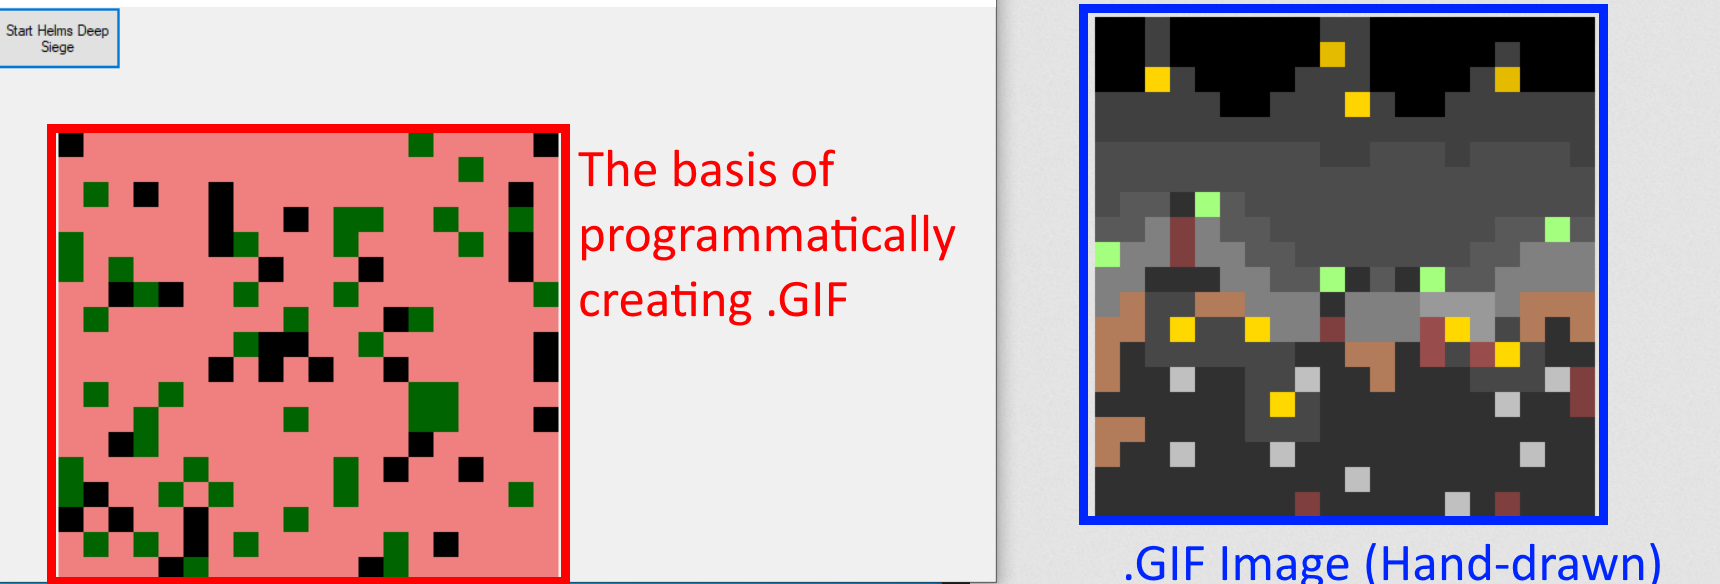
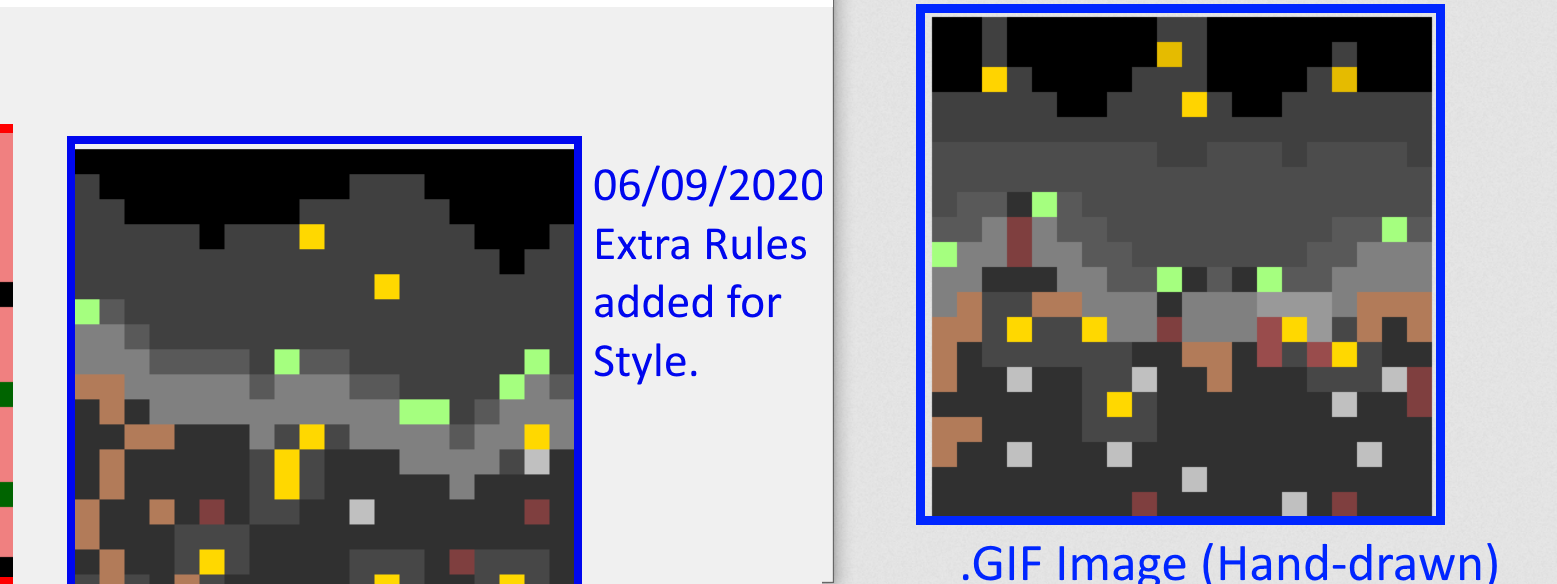
06/09/2020 Base Draw
Update so index image follows pattern of handdrawn .GIF
> Update README
>Add 'Progress.png
>Add 'WorkerFUuctions.GetNearbyCells to search for adjacent celltypes. This is for adding lighting effects and future combat handling.
> Add new Celltypes in SiegeFunctions.Celltypes enum
> Add 'cityHeight' and 'Wallheight' int array in WorkerFunctions. This is to store the max height of city cells and wall cells
> Edit Workerfunctions.FillCells to handle new celltypes added above. This is so the index image matches hand drawn type

diff --git a/WorkerFunctions.cs b/WorkerFunctions.cs
@@ -1,5 +1,6 @@
 using System;
 using System.Collections.Generic;
+using System.Diagnostics;
 using System.Drawing;
 using System.Linq;
 using System.Text;
@@ -23,13 +24,127 @@ namespace WindowsFormsApp1
         }
         public static void FillCells()
         {
-                Random rand = new Random();
-                for (int i = 0; i < Globals.siegeCells.GetLength(0); i++)
+            Random rand = new Random();
+            //The height of the Top of the wall
+            int height = 20;
+            int[] wallHeight = new int[height];
+            int[] cityHeight = new int[height];
+            for(int i=0; i< height; i++){
+                if (i == 0){
+                    wallHeight[i] = 7;
+                    cityHeight[i] = 2;
+                }
+                else{
+                    wallHeight[i] = wallHeight[i-1];
+                    cityHeight[i] = cityHeight[i-1];
+                }
+                int wallHeightChange = rand.Next(3);
+                int cityHeightChange = rand.Next(3);
+                if (wallHeight[i]>10)
                 {
+                    wallHeightChange = rand.Next(2) ;
+                }
+                if (wallHeight[i] < 5)
+                {
+                    wallHeightChange = rand.Next(2)+1;
+                }
+                if (cityHeight[i] > 4) {
+
+                    cityHeightChange = rand.Next(2);
+
+                }
+                if(cityHeight[i]< 2)
+                {
+                    cityHeightChange = rand.Next(2)+1;
+                }
+                if (cityHeightChange == 0)
+                {
+                    cityHeight[i]--;
+                }
+                if (cityHeightChange == 2)
+                {
+                    cityHeight[i]++;
+                }
+                if (wallHeightChange == 0)
+                {
+                    wallHeight[i]--;
+                }
+                if (wallHeightChange == 2)
+                {
+                    wallHeight[i]++;
+                }
+                Debug.WriteLine("Wall:" + wallHeight[i] + ", city:" + cityHeight[i]);
+            }
+            //X axis
+            for (int i = 0; i < Globals.siegeCells.GetLength(0); i++){
+                //Y axis
                 for (int f = 0; f < Globals.siegeCells.GetLength(0); f++)
                 {
                     Globals.siegeCells[i, f] = new SiegeFunctions.SiegeCell(SiegeFunctions.Direction.None, SiegeFunctions.CellTypes.Empty);
+                    if (wallHeight[i] == f)
+                    {
+                        Globals.siegeCells[i, f].SetCellType(SiegeFunctions.CellTypes.WallTop);
+                        if (rand.Next(5) == 0)
+                        {
+                            Globals.siegeCells[i, f].SetCellType(SiegeFunctions.CellTypes.Rohan);
+                        }
+                    }
+                    if (wallHeight[i]+1 == f || wallHeight[i]+2 == f)
+                    {
+                        Globals.siegeCells[i, f].SetCellType(SiegeFunctions.CellTypes.Wall);
+                    }
+                    if (cityHeight[i]> f)
+                    {
+
+                        Globals.siegeCells[i, f].SetCellType(SiegeFunctions.CellTypes.Night);
+                    }
+                    if (cityHeight[i] <= f && wallHeight[i] > f)
+                    {
+
+                        Globals.siegeCells[i, f].SetCellType(SiegeFunctions.CellTypes.CityProper);
+                        if (rand.Next(30) == 0 && f< wallHeight[i]-2)
+                        {
+                            Globals.siegeCells[i, f].SetCellType(SiegeFunctions.CellTypes.Torch);
+                        }
+                    }
+                    if (f > wallHeight[i]+2)
+                    {
+                        Globals.siegeCells[i, f].SetCellType(SiegeFunctions.CellTypes.Ground);
+                        if(Globals.siegeCells[i, f-1].GetCellType()== SiegeFunctions.CellTypes.LadderStart)
+                        {
+
+                            Globals.siegeCells[i, f-1].SetCellType(SiegeFunctions.CellTypes.Ladder);
+                            Globals.siegeCells[i, f].SetCellType(SiegeFunctions.CellTypes.Ladder);
+                        }
+                        bool placeSoldier = false;
+                        if (i > 4 && i < Globals.siegeCells.GetLength(0))
+                        {
+                            placeSoldier = true;
+                        }
+                        else if (rand.Next(5) > 1)
+                        {
+                            placeSoldier = true;
+                        }
+                        if (placeSoldier) { 
+                            Globals.siegeCells[i, f].SetCellType(SiegeFunctions.CellTypes.Urkhai);
+                            if (rand.Next(30) ==0)
+                            {
+                                Globals.siegeCells[i, f].SetCellType(SiegeFunctions.CellTypes.UrkhaiElite);
+                            }
+                            if (rand.Next(30) == 0)
+                            {
+                                Globals.siegeCells[i, f].SetCellType(SiegeFunctions.CellTypes.LadderStart);
+                            }
+                            if (rand.Next(30) == 0)
+                            {
+                                Globals.siegeCells[i, f].SetCellType(SiegeFunctions.CellTypes.Torch);
+                            }
+                        }
+                    }
+
+                    /*
                     switch (rand.Next(8))
+
                     {
                         case (1 | 2 | 3):
                             Globals.siegeCells[i, f].SetCellType(SiegeFunctions.CellTypes.Urkhai);
@@ -41,7 +156,10 @@ namespace WindowsFormsApp1
                         default:
                             break;
                     }
+                    */
+                    Debug.Write(Globals.siegeCells[i, f].GetCellType().ToString());
                 }
+                Debug.Write("\n");
         }
         }
         public static void HelmsDeepButton(Form1 f)
@@ -50,25 +168,102 @@ namespace WindowsFormsApp1
             DisplayCells(f);
 
         }
+        public static bool GetNearbyCells(int x ,int y, SiegeFunctions.CellTypes search)
+        {
+            if (x > 0)
+            {
+
+                if (Globals.siegeCells[x - 1, y].GetCellType() == search)
+                {
+                    return true;
+                }
+                if (y>0&& Globals.siegeCells[x - 1, y].GetCellType() == search)
+                {
+                    return true;
+                }
+                if (y < Globals.siegeCells.GetLength(0)-1&& Globals.siegeCells[x - 1, y+1].GetCellType() == search)
+                {
+                    return true;
+                }
+            }
+            if (y > 0 && Globals.siegeCells[x, y-1].GetCellType() == search)
+            {
+                return true;
+            }
+            if (y < Globals.siegeCells.GetLength(0)-1 && Globals.siegeCells[x, y+1].GetCellType() == search)
+            {
+                return true;
+            }
+            if (x < Globals.siegeCells.GetLength(0)-1)
+            {
+
+                if (Globals.siegeCells[x + 1, y].GetCellType() == search)
+                {
+                    return true;
+                }
+                if (y > 0 && Globals.siegeCells[x + 1, y-1].GetCellType() == search)
+                {
+                    return true;
+                }
+                if (y < Globals.siegeCells.GetLength(0)-1 && Globals.siegeCells[x + 1, y+1].GetCellType() == search)
+                {
+                    return true;
+                }
+            }
+            return false;
+        }
         public static void DisplayCells(Form1 f)
         {
             Form1 form1 = f;
             SolidBrush brush  = new SolidBrush(Color.Transparent);
             Graphics g = f.CreateGraphics();
-            for (int i = 0; i < Globals.siegeCells.GetLength(0); i++)
+            for (int r = 0; r < Globals.siegeCells.GetLength(0); r++)
             {
-                for (int r = 0; r < Globals.siegeCells.GetLength(0); r++)
+                for (int i = 0; i < Globals.siegeCells.GetLength(0); i++)
                 {
-                    switch(Globals.siegeCells[i, r].GetCellType()){
-                        case (SiegeFunctions.CellTypes.Empty):
-                            brush.Color = Color.LightCoral;
+                    switch(Globals.siegeCells[r, i].GetCellType()){
+                        case (SiegeFunctions.CellTypes.Ground):
+                            brush.Color = Color.FromArgb(255,178,123,89);
                             break;
-                        case (SiegeFunctions.CellTypes.Urkhai):
-                            brush.Color = Color.Black;
+                        case (SiegeFunctions.CellTypes.Wall):
+                            brush.Color = Color.FromArgb(255, 128, 128, 128);
+                            break;
+                        case (SiegeFunctions.CellTypes.WallTop):
+                            brush.Color = Color.FromArgb(255, 89, 89, 89);
+                            break;
+                        case (SiegeFunctions.CellTypes.Night):
+                            brush.Color = Color.FromArgb(255, 0, 0, 0);
+                            break;
+                        case (SiegeFunctions.CellTypes.CityProper):
+                            brush.Color = Color.FromArgb(255, 64, 64, 64);
                             break;
                         case (SiegeFunctions.CellTypes.Rohan):
-                            brush.Color = Color.DarkGreen;
+
+                            brush.Color = Color.FromArgb(255, 165, 255, 127);
                             break;
+                        case (SiegeFunctions.CellTypes.Torch):
+
+                            brush.Color = Color.FromArgb(255, 255, 216, 0);
+                            break;
+                        case (SiegeFunctions.CellTypes.Urkhai):
+
+                            brush.Color = Color.FromArgb(255, 48, 48, 48);
+                            if(GetNearbyCells(r,i, SiegeFunctions.CellTypes.Torch))
+                            {
+
+                                brush.Color = Color.FromArgb(255, 71, 71, 71);
+                            }
+                            break;
+                        case (SiegeFunctions.CellTypes.UrkhaiElite):
+
+                            brush.Color = Color.FromArgb(255, 192, 192, 192);
+                            break;
+                       case (SiegeFunctions.CellTypes.Ladder):
+                             brush.Color = Color.FromArgb(255, 127, 63, 63);
+                            break;
+                        default:
+                                brush.Color = Color.FromArgb(165, 255, 0, 0);
+                                break;
 
 
                     }

diff --git a/SiegeFunctions.cs b/SiegeFunctions.cs
@@ -15,12 +15,15 @@ namespace WindowsFormsApp1
             Urkhai,
             Torch,
             Wall,
+            LadderStart,
             Grate,
             Rohan,
             CityProper,
             Empty,
             WallTop,
-            UrkhaiElite
+            UrkhaiElite,
+            Night,
+            Ground
 
 
         }

diff --git a/README.md b/README.md
@@ -2,38 +2,49 @@
 
 ![Helms Deep](SalesPitch.PNG)
 
+This is a short C# project designed to replicate a handdrawn micro .GIF animated image by
+automating the rules I followed while hand drawing the GIF.
+
+
 ## Notes/Know Bugs:
 
-> Still In progress
+> 'Night' Tiles may go down so far there is no 'City' tiles between 'Top Wall' Tiles and 'Night'
 
 ## Features(Planned In Brackets)
 
-> Still In progress
+> (Aniamted .GIF file)
+
+> (Export .GIF file of project)
+
+> Automates the hand-drawing process used to draw https://twitter.com/StarshipladDevp/status/1300752966299734017
+
 
 ## View of progress
 
-
-### Still In progress
-
+! [Progress Image] (Progress.PNG)
 
 ## Latest Build
 Still In progress
 
 ## Latest Update
 
-01/09/2020 - Inital upload
+0/09/2020 - Base Draw
 
 > Updated README
 
->Base 'Form1' App that draws base grid on button press
+> Added several new Tile types
+
+> Added Lighting effects around 'Torch' tiles
+
+>Redrawing Index image now matches the style of handrawn
 
 ## Next Build
 
-Week ending 06/09/2020
+Week ending 20/09/2020
 
-* All Cellgrid types drawn to grid
+* Add button that animates from the index image
 
-* Cellgrids Drawn followign rules
+* Add 'combat' automation and ladder scaling
 
 * Help button for .GIF example
 
